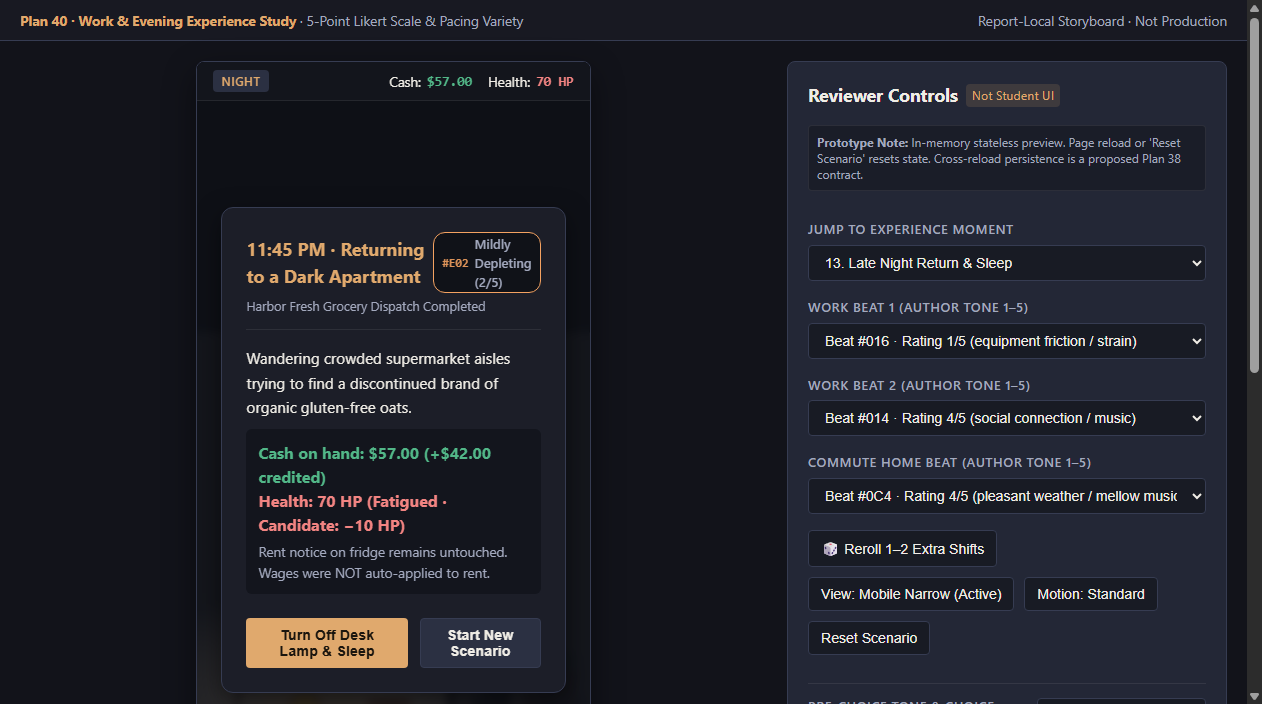
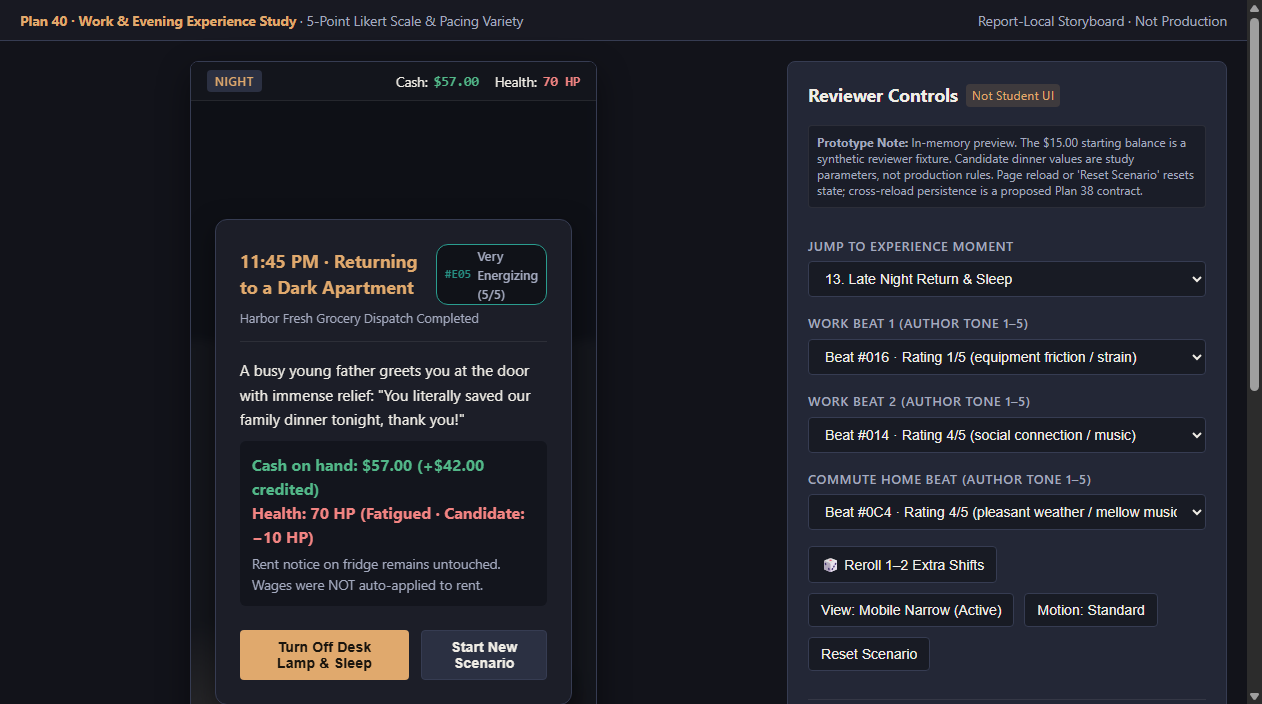
Complete bounded Plan 40 preview repairs for owner review

diff --git a/reports/development/plan-40-work-and-evening-experience-study/index.html b/reports/development/plan-40-work-and-evening-experience-study/index.html
@@ -47,7 +47,7 @@
       <h2>Reviewer Controls <small>Not Student UI</small></h2>
 
       <div style="font-size:0.75rem;color:var(--text-muted);background:rgba(0,0,0,0.25);border:1px solid rgba(255,255,255,0.08);padding:8px;border-radius:4px;margin-bottom:12px;line-height:1.35;">
-        <strong style="color:var(--text-light);">Prototype Note:</strong> In-memory stateless preview. Page reload or 'Reset Scenario' resets state. Cross-reload persistence is a proposed Plan 38 contract.
+        <strong style="color:var(--text-light);">Prototype Note:</strong> In-memory preview. The $15.00 starting balance is a synthetic reviewer fixture. Candidate dinner values are study parameters, not production rules. Page reload or 'Reset Scenario' resets state; cross-reload persistence is a proposed Plan 38 contract.
       </div>
 
       <div class="control-group">
@@ -119,7 +119,7 @@
       </div>
 
       <div class="control-group" style="font-size:0.78rem;color:var(--text-muted);margin-top:8px;">
-        <strong>Keyboard Navigation:</strong> Use <kbd>Tab</kbd> to focus interactive anchors, <kbd>Enter</kbd> / <kbd>Space</kbd> to activate, and <kbd>Escape</kbd> to return from dialogues.
+        <strong>Keyboard Checks:</strong> Evening anchors and shift cards include explicit <kbd>Enter</kbd> / <kbd>Space</kbd> activation handlers. This note does not claim a complete Tab-order audit.
       </div>
     </aside>
   </div>

diff --git a/reports/development/plan-40-work-and-evening-experience-study/progress.md b/reports/development/plan-40-work-and-evening-experience-study/progress.md
@@ -1,3 +1,15 @@
+# Current Plan40 handback — root Repair04 verification
+
+2026-10-31. Root reviewed09ec288/9261be5 and used a bounded Luna-high single-writer repair of remaining report-only issues; root inspected changes and corrected two stale dinner-label assertions. No source game/economy/ZIP contract was changed by this study. The separate opening-button production styling fix is recorded in reports/orchestration/opening-button-style-repair.md.
+
+Root validation:6 focused tests passed through unchanged bounded launcher,0.53s,sampled1,875,968bytes; isolated temporary headless browser11-step walkthrough passed,5.67s,sampled415,047,680bytes,no stop or cleanup notes. The route shows synthetic15cash start,60wage,6dinner purchase→69cash, CallMom+5→85HP ending the Evening, then explicit reset and separate gig scenario. Programmatic focus and dispatched Enter/Space cover the tested handlers, not full Tab/accessibility or OS reduced-motion parity. No owner storage or existing server changed. New screenshot/JSON evidence reflects this final run. Earlier test attempts failed stale $0 meal-label assertions; root updated them to $6 and5HP, then reran successfully.
+
+Root repair includes versioned proposed export data, dinner working parameters consistent with selected policy, once-per-slot exposure records after DOM insertion, guarded completed-scenario navigation and invalid gig jumps. It preserves52 authored beats. No causal or student-outcome findings are established by this toy tracker. Catalog/copy and ambient style are ready for owner review; final production adoption requires a separate bounded packet.
+
+The previous implementer report below is retained as HISTORICAL evidence. Its broad verification wording is superseded by the current source/claims and the Root Repair04 section appended afterward.
+
+---
+
 # Plan 40: Work and Evening Experience Study — Progress Report
 
 **Date**: 2026-10-31  
@@ -118,3 +130,29 @@ These are left untouched and uncommitted.
 ## 8. Ready for Orchestrator Review
 
 **Yes**. All corrections requested in Checkpoint 01 have been applied and verified.
+
+---
+# Plan 40: Work and Evening Experience Study — Progress Report
+
+**Date**: 2026-10-31
+**Status**: In Progress · Root-requested Repair 04 delivered for bounded validation
+**Authority**: Report-only prototype work; no production integration or Plan 42 schema adoption
+
+## Repair 04 changes
+
+- Compact usage export now serializes `{ catalogVersion, scenarios }` using `CATALOG_VERSION` from `copy.mjs`. The example JSON and tests target this proposed Plan 40 adapter; it remains explicitly unadopted by Plan 42.
+- Dinner prototype now offers **Buy Dinner (−$6 cash)** or **Skip Dinner (−5 HP)**. The prototype applies the selected candidate parameter once, prevents purchase when the reviewer fixture lacks $6 and clamps skipped-dinner health at zero, and displays the resulting values. This is a study parameter, not an accepted production economy rule. The $15 starting cash is labeled as a synthetic reviewer fixture.
+- Pre-choice exposures are recorded after the beat UI is inserted. Dedupe keys include moment/slot and beat ID, so rerendering one slot is ignored while the same ID in separate slots remains two exposures.
+- Night Return records a gig session after its UI is inserted. A direct reviewer jump without active shift/beat returns to a safe room/summary and fabricates no gig session. A committed scenario cannot be reopened for another choice through reviewer navigation or repeated gig selection.
+- Added focused unit assertions for the versioned export envelope and occurrence-key behavior. Updated the bounded browser harness assertions for the candidate dinner cost and fresh-scenario gig cash; the harness has not been run for this repair.
+- Corrected the decision ledger, storyboard walkthrough, and integration example to distinguish the explicit dinner-choice presentation from the proposed costs. Removed the duplicate/stray JSON lines.
+
+## Validation status
+
+No tests, browser checks, build, or packet lint were run during this bounded repair. Root validation is pending. Prior browser results in earlier progress are historical evidence for the pre-Repair-04 source and must not be treated as validation of these changes.
+
+Accessibility claims are limited to the source's explicit Enter/Space key handlers on the evening anchors and shift cards; this is not full Tab-order or operating-system reduced-motion validation. Existing reduced-motion evidence is limited to the scoped CSS and reviewer toggle behavior already inspected; no new OS setting claim is made.
+
+## Scope and handoff
+
+Changes are limited to `copy.mjs`, `storyboard.mjs`, `experiment-tracker.mjs`, `storyboard.test.mjs`, `browser-check.mjs`, `index.html`, `ledger.md`, `storyboard.md`, and `integration-recommendation.md` in this report folder. Existing untracked files outside this packet are untouched. Return to the root orchestrator for finite validation and owner review; this report does not close Plan 40 or authorize push/deployment.

diff --git a/reports/development/plan-40-work-and-evening-experience-study/ledger.md b/reports/development/plan-40-work-and-evening-experience-study/ledger.md
@@ -23,7 +23,7 @@ This ledger strictly separates verified owner choices from implementer interpret
 | **OWN-40-10** | 2026-10-31 | Gig App Persistence | Independent gig apps remain available even if regular scheduled warehouse employment is lost; gigs serve as an accessible emergency recovery lane. | Owner direction / Root Continuation 02 |
 | **OWN-40-11** | 2026-10-31 | Shift Vignette Sampling | The 5 beats defined per extra shift are **standalone alternative vignettes** sampled per shift exposure, not a 5-part serial sequence. | Owner direction / Root Continuation 02 |
 | **OWN-40-12** | 2026-10-31 | Single Evening Choice | Exactly **one evening anchor** is chosen per observed scenario; completing it concludes that evening. Alternative previews begin via an explicit fresh scenario / reset. | Root Continuation 03 |
-| **OWN-40-13** | 2026-10-31 | Dinner Maintenance Choice | Kitchen return represents dinner as an **explicit choice** (eat prepared leftovers vs skip dinner) with disclosed parameters ($0 cash), keeping meals routine maintenance without silently establishing free automatic dinner. | Root Continuation 03 |
+| **OWN-40-13** | 2026-10-31 | Dinner Choice Presentation | Kitchen return presents dinner as an explicit choice. This does not select free leftovers or establish the prototype's candidate costs as production policy. | Root Continuation 03 |
 | **OWN-40-14** | 2026-10-31 | Direct Take-Home Disbursal | Omit candidate gross ($88) and deduction ($28) presentation copy; preserve direct **$60.00 net take-home cash** without invented payroll arithmetic. | Root Continuation 03 |
 | **OWN-37-01** | 2026-10-31 | Shift Take-Home Baseline | Ordinary completed shift baseline take-home pay is **$60.00**. | Plan 37 Closeout / Plan 29 |
 | **OWN-38-01** | 2026-10-30 | Life/Phone Separation | Phone invitation means opening the gacha; life actions stay diegetic in the apartment. | Plan 38 Owner Review 02 |
@@ -54,6 +54,7 @@ This ledger strictly separates verified owner choices from implementer interpret
 | **PROP-40-03** | Tone Tier Cutoffs: Depleting (1.0–2.2), Neutral/Routine (2.3–3.5), Uplifting (3.6–5.0). | Implemented in Tracker | CourseVGD student usage file analysis |
 | **PROP-40-04** | Sit with Duck Restorative Effect: +2 HP quiet stillness (candidate figure). | Working Proposal in Storyboard | Future life activity adoption |
 | **PROP-40-05** | Extra Shift Flat Payouts: $35.00 to $55.00 flat cash rewards (candidate figures). | Working Proposal in Storyboard | Whole-run economy balancing |
+| **PROP-40-06** | Dinner study parameters: buying dinner costs $6 cash; skipping dinner costs 5 HP. These values are implemented in the prototype only and are not accepted production rules. | Working Proposal in Storyboard | Future life activity adoption |
 
 ---
 

diff --git a/reports/orchestration/plan-40-repair-verification-04.md b/reports/orchestration/plan-40-repair-verification-04.md
@@ -1,0 +1,9 @@
+# Plan40 repair verification and owner handback
+
+2026-10-31. Reviewed interim repair09ec288/9261be5 with an independent requestedTerra-medium read-only reviewer; identity not independently observable. Core normal-route repairs were present, but versioned data, dinner semantics, exposure insertion order and reviewer-repeat guards remained. Root used a bounded Luna-high single-writer report-only repair, inspected the diff, corrected stale label assertions and preserved the old progress report as historical rather than deleting it.
+
+Changes: proposed export is now {catalogVersion,scenarios} including dinner; uses selected working6cash meal and5HP skip parameters rather than falsely owner-selected free leftovers. Purchase is guarded when insufficient and outcomes display actual state. Pre-choice exposure key is slot+beat, recorded after successful UI insertion; gig result is recorded after insertion and invalid direct jump cannot fabricate a session. Completed Evening cannot be reopened for another observed choice without reset. The52-beat authored catalog, ordinary60takehome, gig alternatives and separate demo/observations remain.
+
+Root six named focused tests pass, serial bounded0.53s,1,875,968bytes sampled; root11-step isolated browser walkthrough passes5.67s,415,047,680bytes sampled with no cleanup/stop notes. Initial stale dinner-label assertions failed and were corrected, not hidden. Validated69cash after dinner, Mom+5 completing evening, reset for a separate gig, and displayed post-choice beat. Browser checks tested focus/Enter/Space handlers, not comprehensive Tab/OS reduced motion or physical-device behavior. Reload resets this explicitly stateless prototype; no durable session/RNG/export adoption is demonstrated. Source-level exposure counting after insertion is not empirical measurement of attention or mood.
+
+Disposition: delivered for owner review as a coherent report-local investigation; no further bulk catalog expansion required before that judgment. Owner should judge atmosphere, representative varied copy, ordinary versus extra work and the Evening options. Selected6meal/5skip direction is not a new free-leftovers rule. Exact gig economics/sitduck+2 remain proposals; renderer state is synthetic, and production stage/navigation/save/assets are not taken from this mockup. Later integration must use accepted authoritative life transitions and Plan44 evidence contracts, not copy this controller into src. No closure, production integration, push or deployment.

diff --git a/docs/development/README.md b/docs/development/README.md
@@ -48,7 +48,7 @@ Packets are assigned to implementer agents. Each packet defines scope, required 
 | `plan-37` | Action-based time and optional life lanes specification | complete | Specify the owner-selected action-based time model and optional meal, work, leisure and recovery lanes. Separate opportunity costs and disclosed consequences from Plan29 numeric calibration before implementing new story rules. |
 | `plan-38` | Apartment life progression and production integration | complete | Integrate one authoritative action-based life progression model with existing apartment surfaces, distinct work/pay/rent commitments, session re-entry, truthful events and safe saved transitions. |
 | `plan-39` | Melody reference and Web Audio laboratory | delivered | Build a local Web Audio audition and WAV-export laboratory for melody C continuations, light arrangements and reusable symbolic scores, informed by accepted music research and owner listening. |
-| `plan-40` | Work and evening experience study | in-progress | Develop and visually compare how ordinary work, an extra shift and a first-evening activity appear in the apartment tutorial, coordinated with Plan37's authoritative day sequence. |
+| `plan-40` | Work and evening experience study | delivered | Develop and visually compare how ordinary work, an extra shift and a first-evening activity appear in the apartment tutorial, coordinated with Plan37's authoritative day sequence. |
 | `plan-41` | Ren friend character and social life study | complete | Develop Ren as a friend with a life beyond the gacha, comparing visual concepts, interaction opportunities, well-being recovery and relationship consequences with the owner before integration. |
 | `plan-42` | Usage package contract and ZIP round-trip spike | delivered | Prove a bounded local ZIP/JSON usage-package contract with synthetic runs and import diagnostics, while gameplay-event mappings remain versioned inputs rather than frozen production rules. |
 | `plan-43` | Apartment music styles and motif-intrusion study | in-progress | Research six apartment instrumental styles and prototype longer TV-music loops with shorter gacha-motif-inflected companions using editable scores and the Plan39 synthesis work. |

diff --git a/reports/development/plan-40-work-and-evening-experience-study/storyboard.md b/reports/development/plan-40-work-and-evening-experience-study/storyboard.md
@@ -74,10 +74,10 @@ The interactive storyboard demonstrates an understandable, lived progression fro
 - **Visuals**: Apartment kitchen counter under warm interior lighting (`src/assets/apartment/index.mjs`).
 - **Narrative**: Setting keys and warehouse badge on the laminate counter.
 - **Maintenance Dinner Choice (Disclosed Parameters)**:
-  - Presents an explicit, disclosed meal choice:
-    - *Eat Prepared Leftovers*: Maintenance meal ($0 cash, routine sustenance).
-    - *Skip Dinner for Now*: Fatigue / low appetite ($0 cash, meal skipped).
-  - Keeps meals routine maintenance without silently assuming free dinner or consuming an extra anchor.
+  - Presents an explicit, disclosed prototype study choice:
+    - *Buy Dinner*: −$6 cash (candidate parameter).
+    - *Skip Dinner*: −5 HP (candidate parameter).
+  - Both values remain prototype proposals, not accepted production policy. The selected cost and resulting cash/health are shown.
 - **Player Action**: `[Head to Desk]`.
 
 ### Beat 7: Evening Apartment & Life Anchors
@@ -138,15 +138,15 @@ The interactive storyboard demonstrates an understandable, lived progression fro
 Proposed adapter for `CATALOG_VERSION = '1.1.0'` (candidate schema for future CourseVGD integration, not an adopted Plan 42 ZIP schema):
 ```json
 {
-  "day": 1,
-  "pre": [["012", 2], ["014", 4], ["0C4", 4]],
-  "avg": 3.33,
-  "act": "call_mom",
-  "post": []
-}
-```
-  "avg": 3.33,
-  "act": "call_mom",
-  "post": []
+  "catalogVersion": "1.1.0",
+  "scenarios": [
+    {
+      "pre": [["012", 2], ["014", 4], ["0C4", 4]],
+      "avg": 3.33,
+      "act": "call_mom",
+      "post": [],
+      "dinner": "eat"
+    }
+  ]
 }
 ```

diff --git a/reports/development/plan-40-work-and-evening-experience-study/integration-recommendation.md b/reports/development/plan-40-work-and-evening-experience-study/integration-recommendation.md
@@ -78,20 +78,21 @@ These interfaces are proposed recommendations for future lifecycle integration, 
 
 ## 2. Compact Run-Usage Export Schema (Proposed Adapter)
 
-This is a **proposed export adapter** for `CATALOG_VERSION = '1.1.0'` (illustrative candidate schema for CourseVGD analysis, **NOT** an adopted Plan 42 ZIP schema; Plan 40 asserts no integration authority over Plan 42):
+This is a **proposed export adapter** for `CATALOG_VERSION = '1.1.0'` (illustrative candidate schema for CourseVGD analysis, **NOT** an adopted Plan 42 ZIP schema; Plan 40 asserts no integration authority over Plan 42). The prototype emits the versioned envelope shown here:
 ```json
 {
-  "day": 1,
-  "pre": [["012", 2], ["014", 4], ["0C4", 4]],
-  "avg": 3.33,
-  "act": "call_mom",
-  "post": [],
-  "dinner": "eat",
-  "wage": 60.00,
-  "gachaSpent": 0.00
+  "catalogVersion": "1.1.0",
+  "scenarios": [
+    {
+      "pre": [["012", 2], ["014", 4], ["0C4", 4]],
+      "avg": 3.33,
+      "act": "call_mom",
+      "post": [],
+      "dinner": "eat"
+    }
+  ]
 }
 ```
-*Note on Unscored Sessions*: When `pre` is empty (e.g. testing evening choices directly), `avg` is serialized as `null` (unscored) and excluded from tone tier denominators.
 *Note on Unscored Sessions*: When `pre` is empty (e.g. testing evening choices directly), `avg` is serialized as `null` (unscored) and excluded from tone tier denominators.
 
 ---

diff --git a/docs/development/plan-40-work-and-evening-experience-study.md b/docs/development/plan-40-work-and-evening-experience-study.md
@@ -1,7 +1,7 @@
 ---
 id: plan-40
 title: Work and evening experience study
-status: in-progress
+status: delivered
 depends_on: []
 gate: "Owner assigns Gemini Flash2026-10-31. Direct owner conversation and report-local prototype iteration proceed to coherent delivery; production rules/adoption and material cross-packet implications remain gated."
 summary: >-
